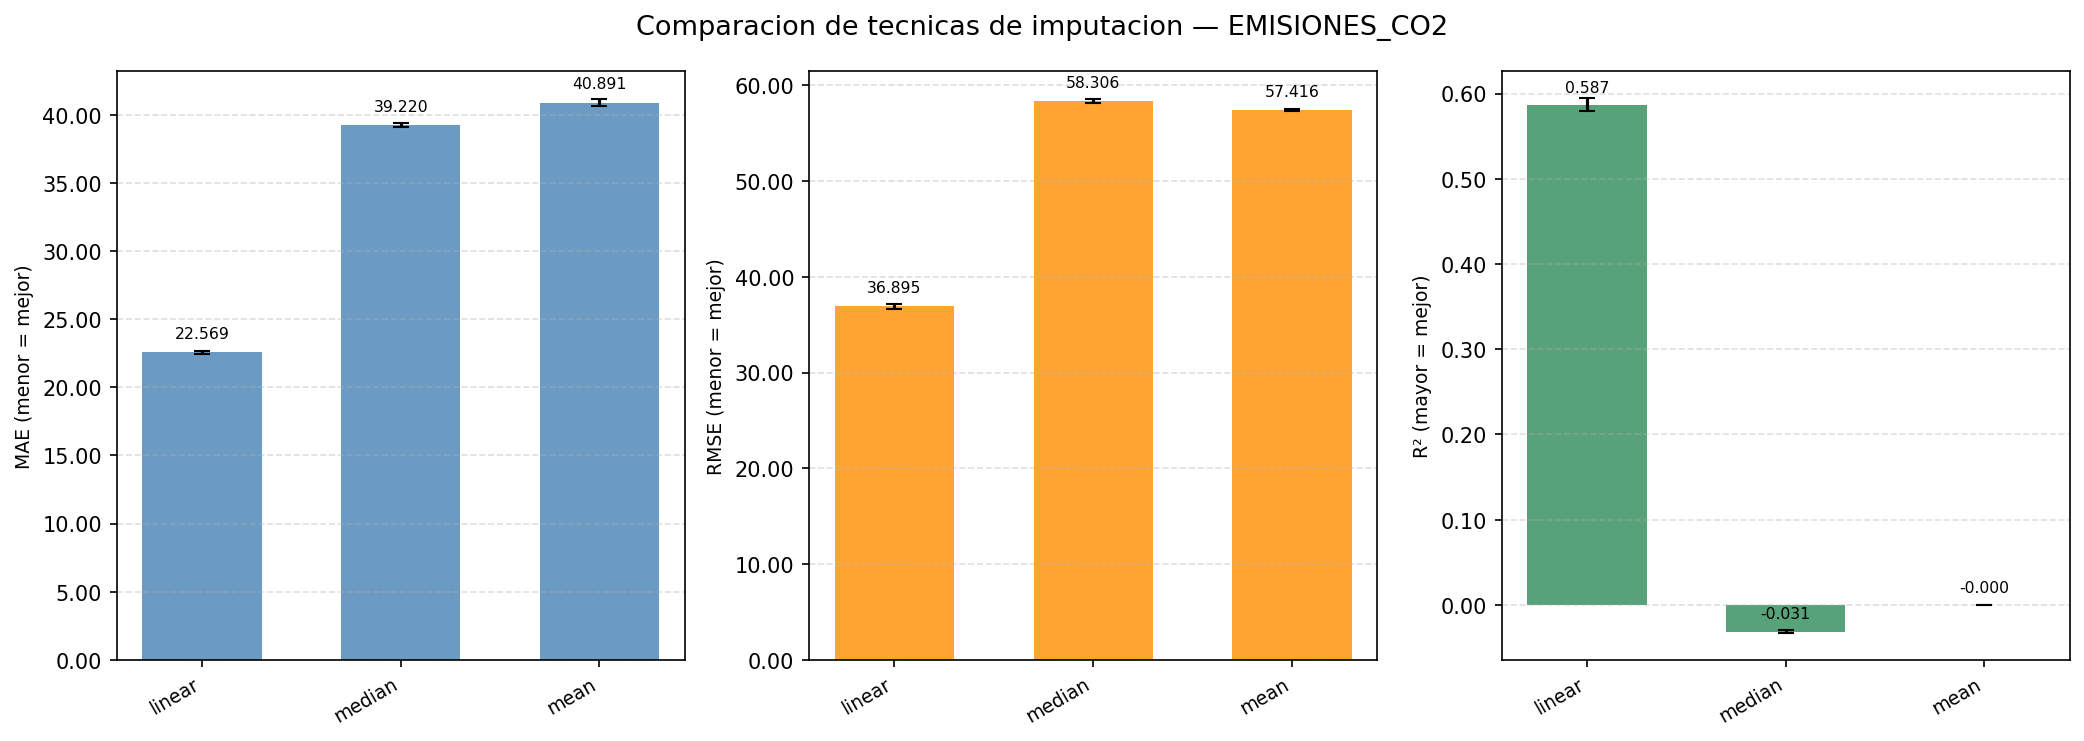
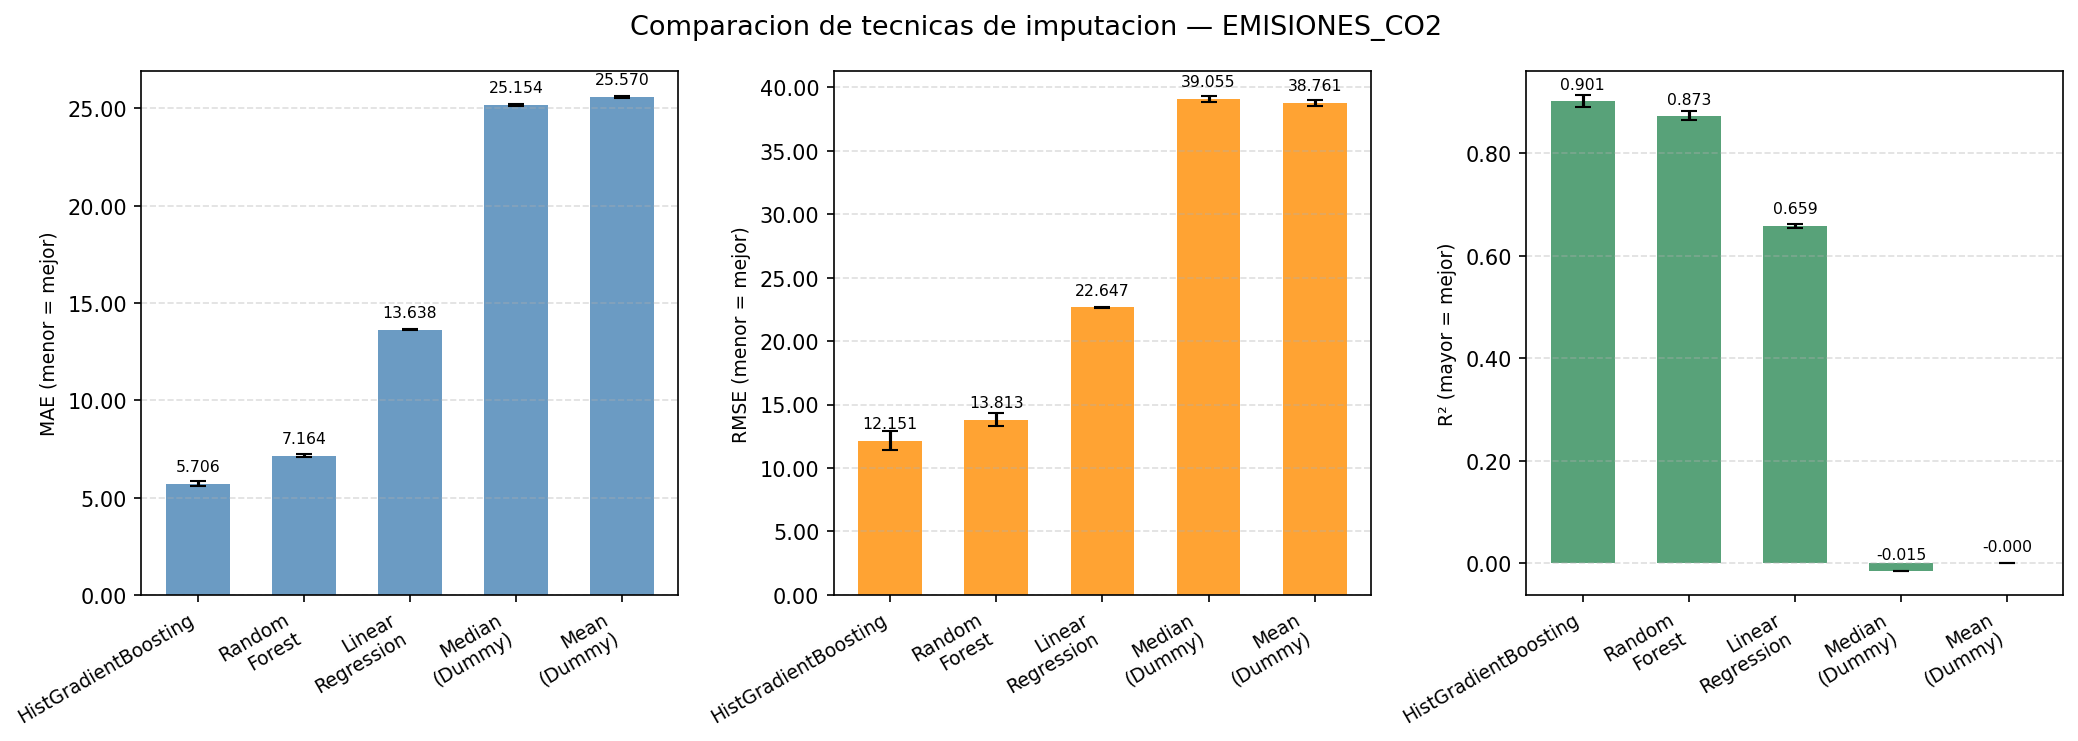
feat: update imputer comparison metrics and enhance plot labels for clarity

diff --git a/src/compare_imputers.py b/src/compare_imputers.py
@@ -212,6 +212,16 @@ def _save_json(results: list[dict], path: Path, meta: dict) -> None:
   print(f"  JSON:      {path}")
 
 
+TECHNIQUE_LABELS = {
+  "mean": "Mean\n(Dummy)",
+  "median": "Median\n(Dummy)",
+  "linear": "Linear\nRegression",
+  "knn": "KNN\nRegressor",
+  "rf": "Random\nForest",
+  "hgbt": "HistGradientBoosting",
+}
+
+
 def _save_plot(results: list[dict], path: Path) -> None:
   import matplotlib.pyplot as plt
   import matplotlib.ticker as ticker
@@ -220,6 +230,7 @@ def _save_plot(results: list[dict], path: Path) -> None:
 
   df = pd.DataFrame(results).sort_values("mae").reset_index(drop=True)
   techniques = df["technique"].tolist()
+  labels = [TECHNIQUE_LABELS.get(t, t) for t in techniques]
   x = np.arange(len(techniques))
 
   fig, axes = plt.subplots(1, 3, figsize=(14, 5))
@@ -236,7 +247,7 @@ def _save_plot(results: list[dict], path: Path) -> None:
     errs = df[f"{metric}_std"].values
     bars = ax.bar(x, vals, yerr=errs, color=color, alpha=0.8, capsize=4, width=0.6)
     ax.set_xticks(x)
-    ax.set_xticklabels(techniques, rotation=30, ha="right", fontsize=9)
+    ax.set_xticklabels(labels, rotation=30, ha="right", fontsize=9)
     ax.set_ylabel(ylabel, fontsize=9)
     ax.yaxis.set_major_formatter(ticker.FormatStrFormatter("%.2f"))
     ax.grid(axis="y", linestyle="--", alpha=0.4)
